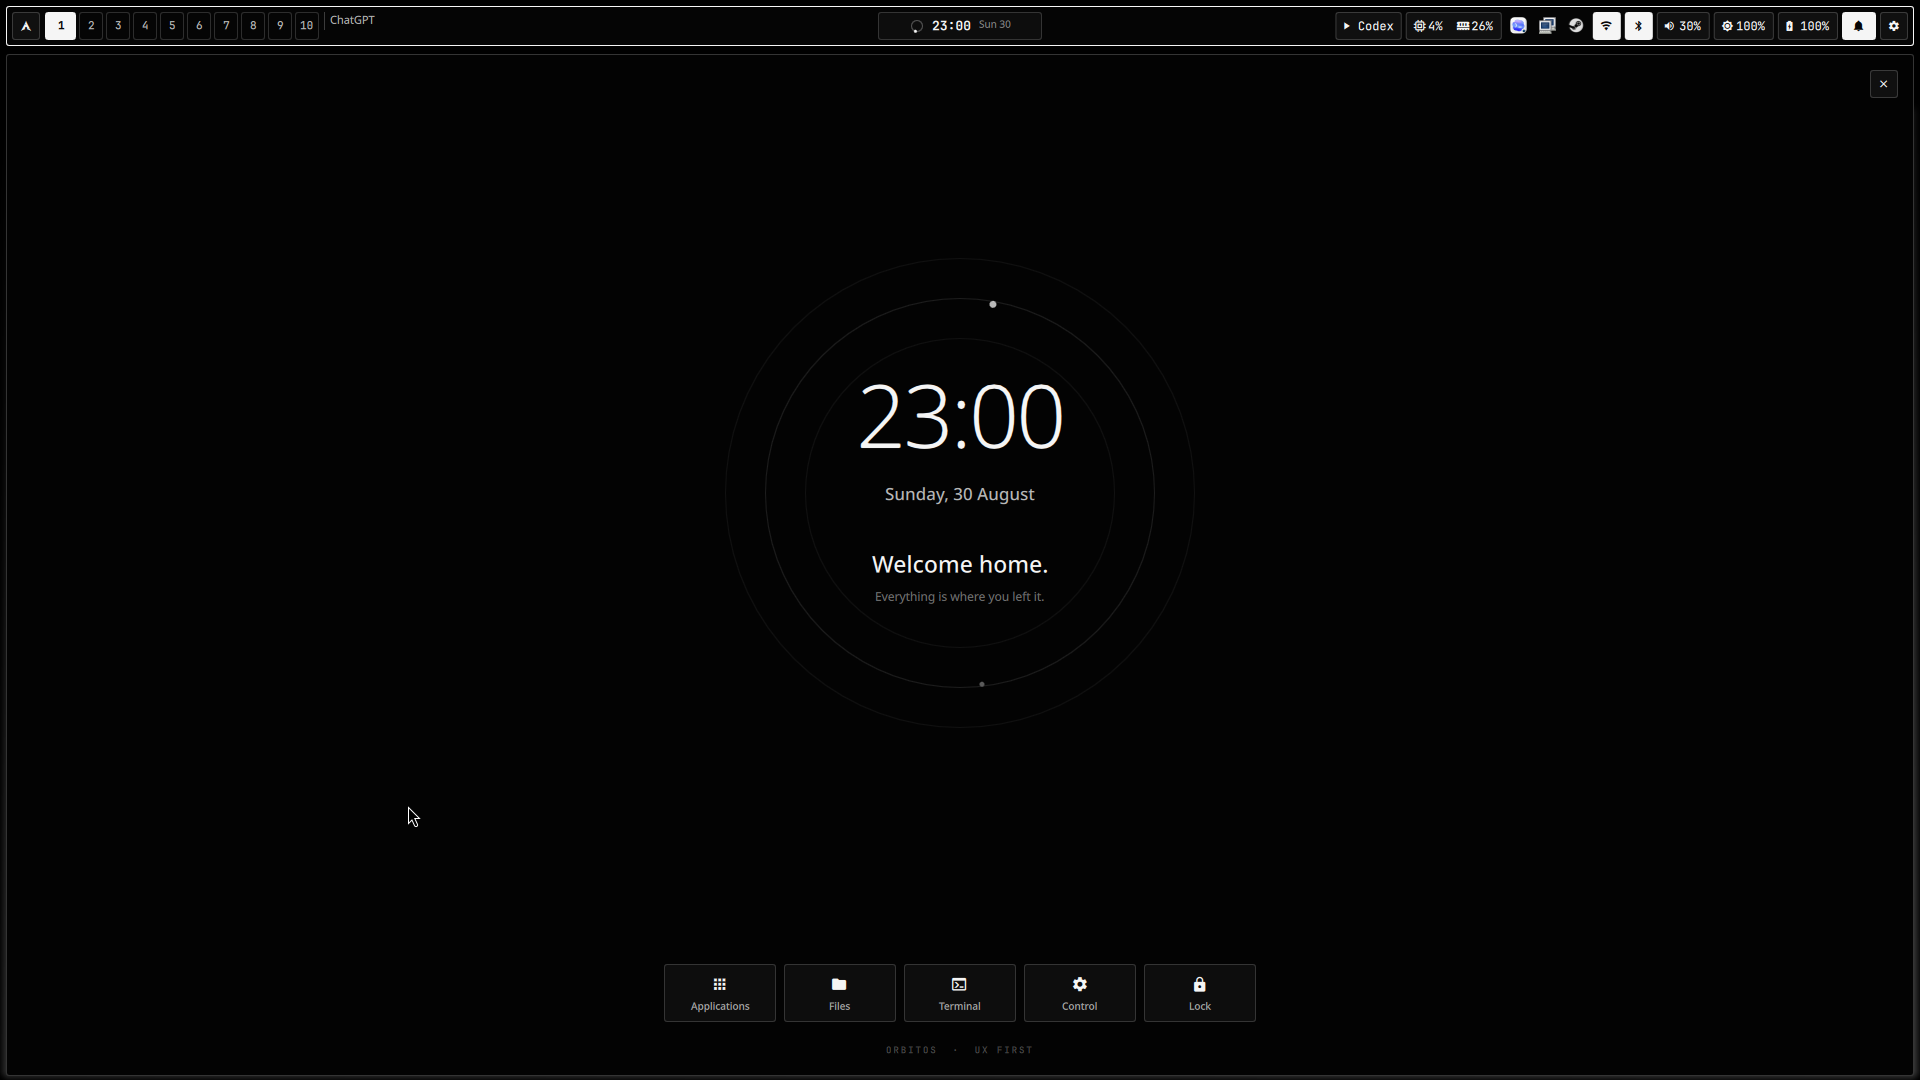
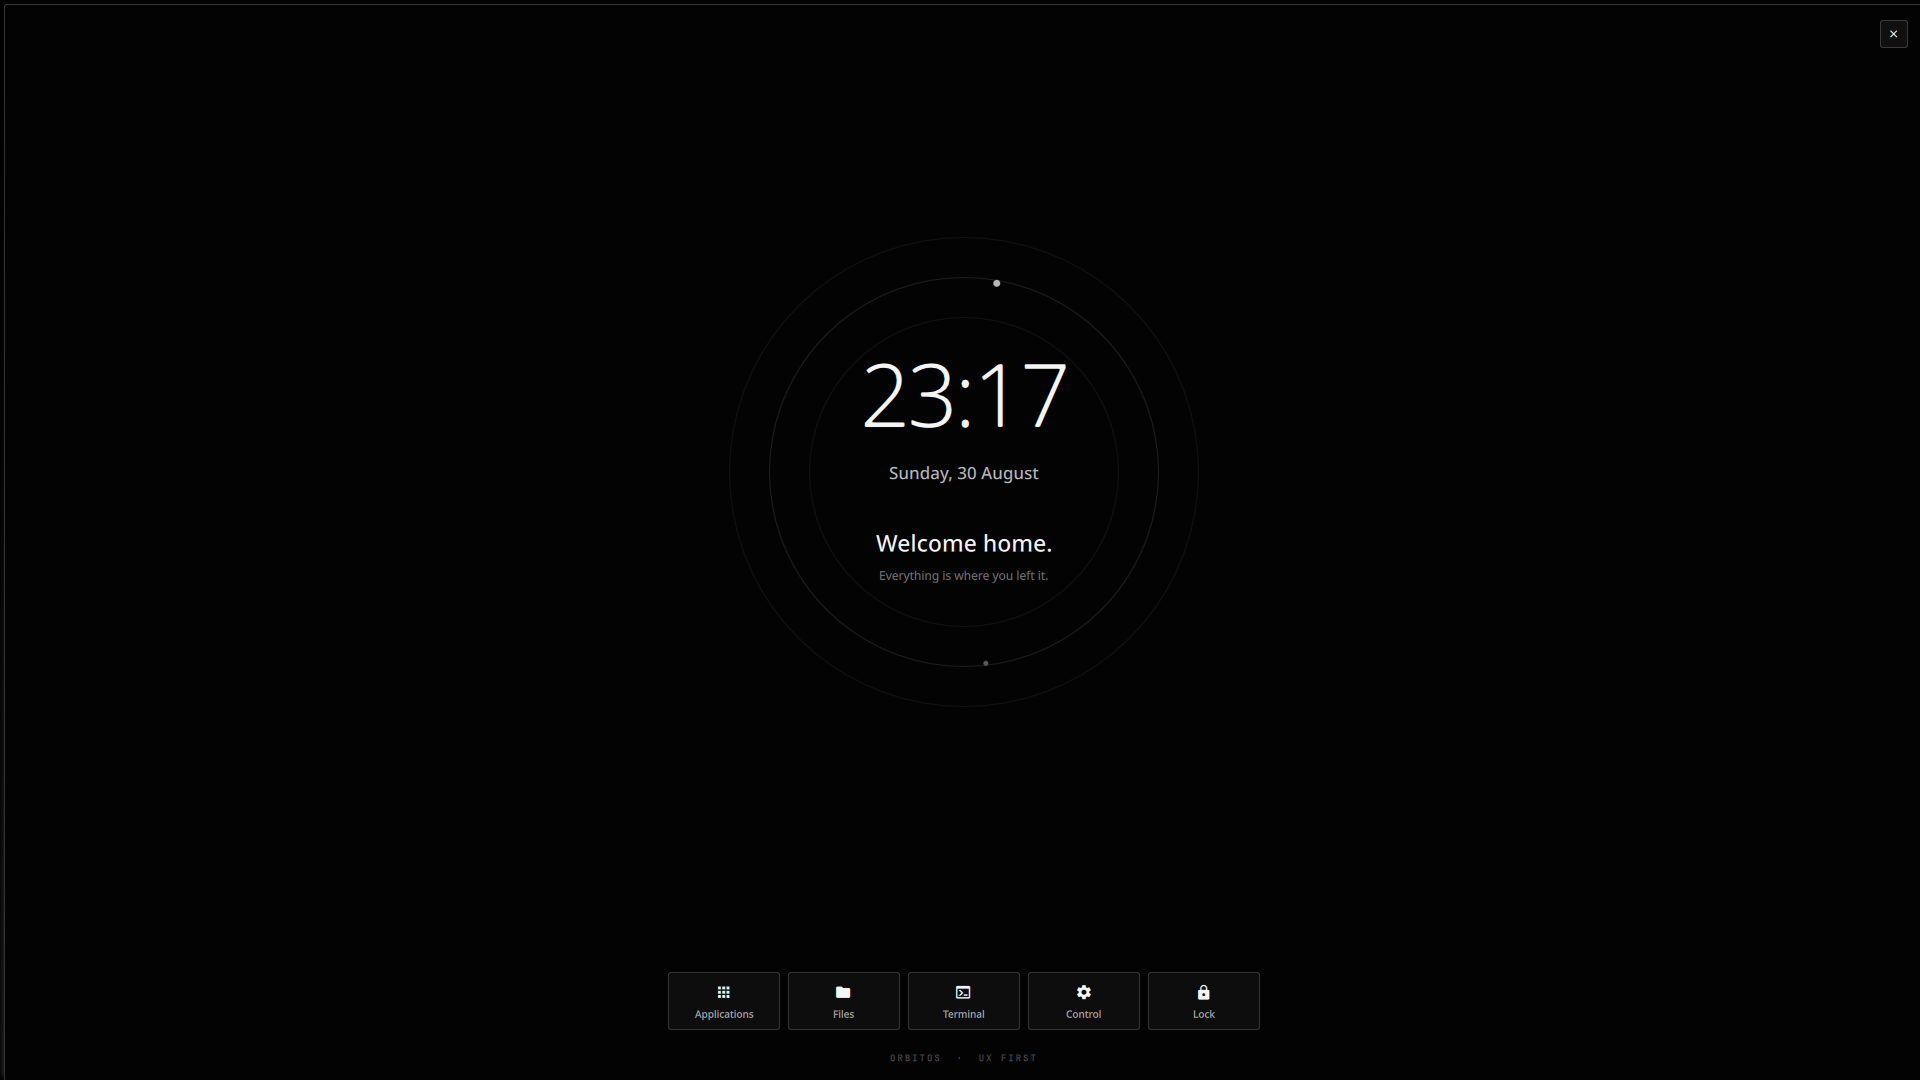
Make home screen fullscreen

diff --git a/.config/quickshell/HomeScreen.qml b/.config/quickshell/HomeScreen.qml
@@ -18,10 +18,10 @@ PopupWindow {
     }
 
     anchor.window: root.anchorWindow
-    anchor.rect.x: 0
-    anchor.rect.y: root.anchorWindow ? root.anchorWindow.height + 6 : 46
-    implicitWidth: root.anchorWindow ? root.anchorWindow.width : 1200
-    implicitHeight: root.anchorWindow ? Math.max(620, root.anchorWindow.screen.height - 58) : 800
+    anchor.rect.x: -6
+    anchor.rect.y: -6
+    implicitWidth: root.anchorWindow ? root.anchorWindow.screen.width : 1200
+    implicitHeight: root.anchorWindow ? root.anchorWindow.screen.height : 800
     visible: opened
     color: "transparent"
 
